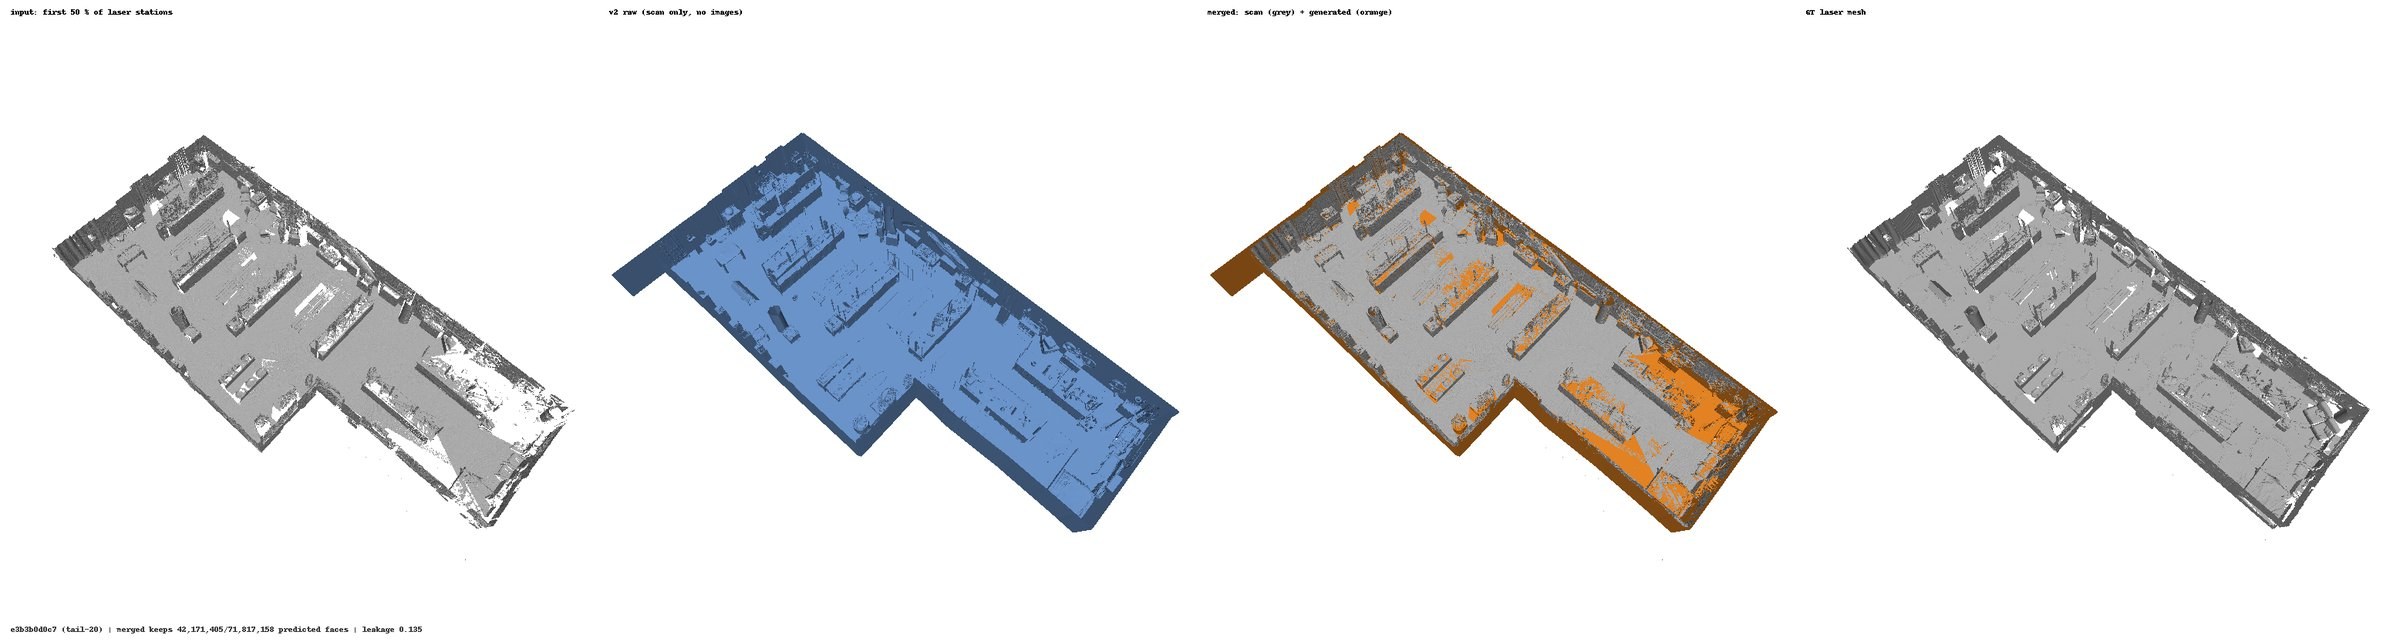
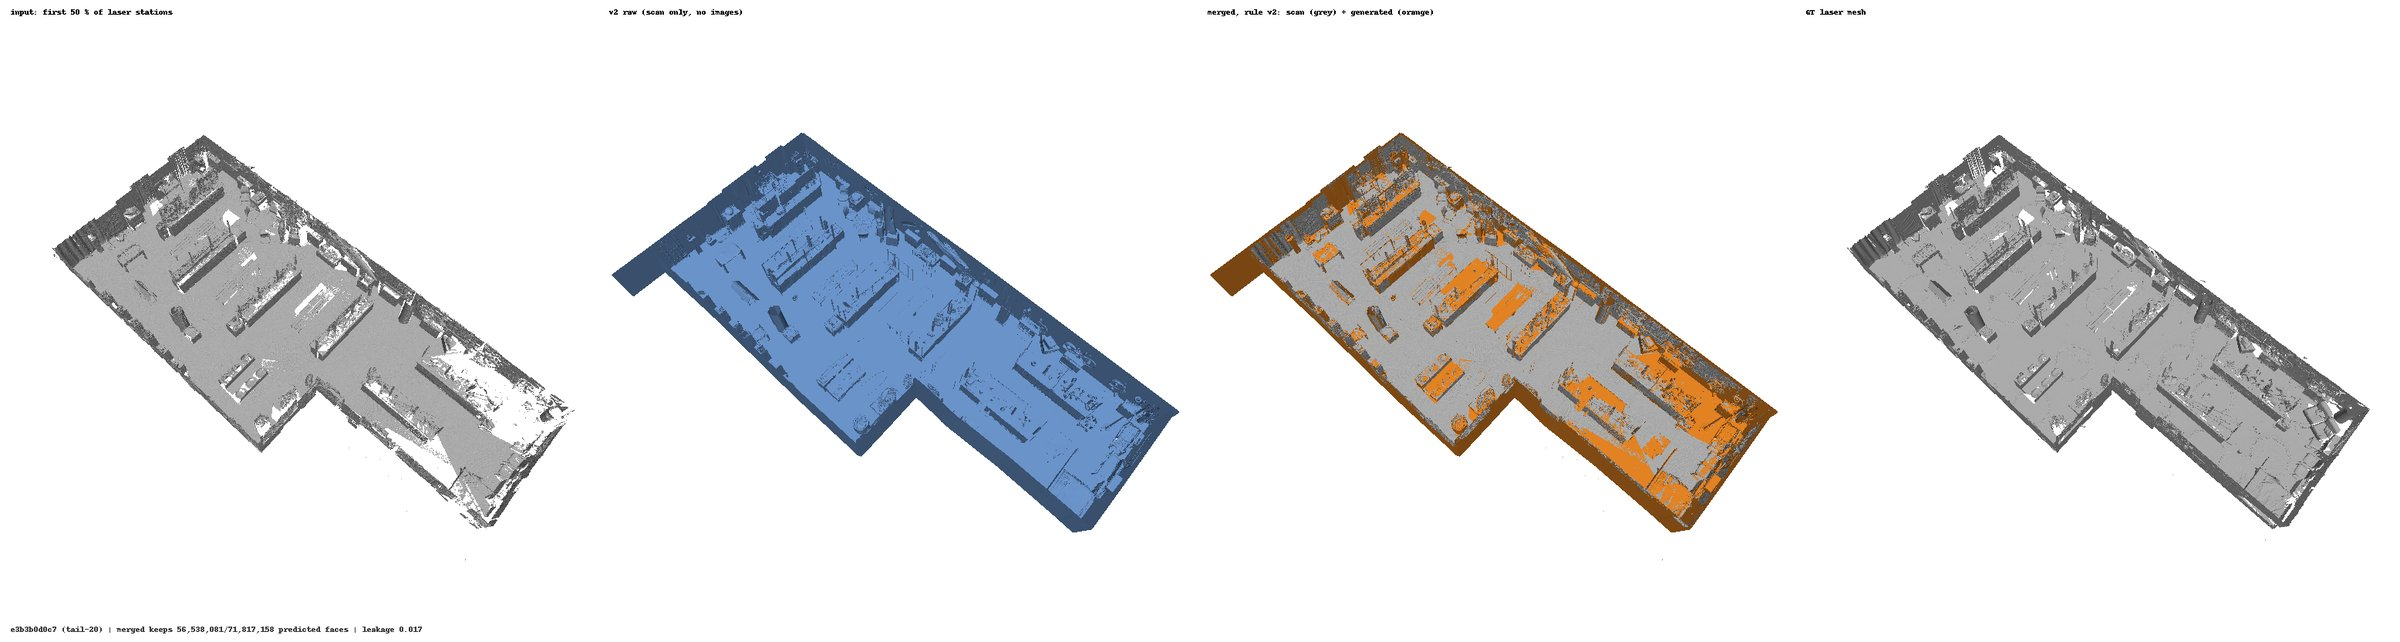
complete3d/completion: section 2 examples with merge rule v2 (6 shown scenes)
Section 2 (first 50 % of laser stations, scan only): the six example panels and the
seam close-up now use merge rule v2 (D57): drop a predicted vertex only within 1.5 cm
of the scan surface (point-to-triangle), keep a face if >= 1 vertex survives, free
space only with 3 cm clearance. A new table compares v1 and v2 on the six scenes
(mean CD merged 0.0382 -> 0.0368, faces kept 62 % -> 83 %). The whole-scene / split
tables stay the 137-scene rule-v1 numbers, labelled. Section 1 is unchanged.

Claude-Session: https://claude.ai/code/session_01SUA8FEE2aJdp9an81eJWGW

Changed region(s): [[0.5, 0.2181, 0.75, 0.81], [0.5312, 0.0, 0.5938, 0.0312]]

diff --git a/complete3d/completion/index.html b/complete3d/completion/index.html
@@ -56,14 +56,20 @@
     At that coverage the merge does <b>not</b> beat the input scan on CD; it adds the missing surface but less accurately than laser data.
   </div>
 
-  <h2>Merge rule (both sections)</h2>
+  <h2>Merge rules</h2>
   <ul class="rules">
     <li>Free space = 2 cm voxels crossed by each laser ray (station → point), stopping 4 cm before the hit.</li>
-    <li>A predicted vertex is dropped if it lies in free space (the scan saw nothing there) or within 3 cm of a scan point (the scan already
-      has the surface); a predicted face survives only if all three vertices do. Merged = scan mesh ∪ surviving predicted faces.</li>
+    <li><b>Rule v1</b> (both sections' tables, section 1's examples): a predicted vertex is dropped if it lies in free space (the scan saw
+      nothing there) or within 3 cm of a scan point (the scan already has the surface); a predicted face survives only if all three vertices do.</li>
+    <li><b>Rule v2</b> (section 2's examples, since 2026-11-05): a predicted vertex is dropped if it lies within 1.5 cm of the scan surface
+      (point-to-triangle) or in free space with 3 cm clearance (its 2 cm voxel and the voxels 3 cm away in all 26 directions are free, so laser
+      rays skimming the floor or a wall do not delete that surface); a predicted face survives if at least one vertex does. v1 cut the
+      prediction back 3–5 cm from every scan edge (a white ring) and deleted floor bands under grazing rays; v2 does neither.</li>
+    <li>Merged = scan mesh ∪ surviving predicted faces (no blending).</li>
     <li>Leakage check: the share of the raw predicted surface that lies in space the scan saw empty (removed by the rule) —
-      7.9% in section 1, 11.8% in section 2 (mean over scenes); predicted faces kept on
-      average 72% and 63%.</li>
+      7.9% in section 1, 11.8% in section 2 (rule v1, mean over scenes); predicted faces kept on
+      average 72% and 63%. On section 2's six examples rule v2 keeps
+      83% of the predicted faces (v1 62%); leakage 2.8% (v1 13.9%).</li>
   </ul>
 
   <h2 id="scan10">1 · First laser station (10 % of stations) + 8 DSLR images</h2>
@@ -89,24 +95,27 @@
 
 
   <h2 id="scan50">2 · First 50 % of laser stations, scan only (no images)</h2>
-  <div class="sub">Input = the <b>first half of the laser stations</b> (94% of the GT surface) and <b>nothing else</b>: no images at any stage (stage 1 scan-only, stages 2–3 unconditional) · 2026-10-15 · 137 test scenes</div>
+  <div class="sub">Input = the <b>first half of the laser stations</b> (94% of the GT surface) and <b>nothing else</b>: no images at any stage (stage 1 scan-only, stages 2–3 unconditional) · tables 2026-10-15 (merge rule v1) · examples 2026-11-05 (merge rule v2) · 137 test scenes</div>
   <div class="headline">
     <h3>Whole scene</h3>
-    <table><thead><tr><th>mesh</th><th>CD ↓</th><th>acc ↓</th><th>compl ↓</th><th>P ↑</th><th>R ↑</th><th>F@10 ↑</th><th>NC ↑</th></tr></thead><tbody><tr><td>input scan only (first 50 % of stations)</td><td class='best'>0.0267</td><td class='best'>0.0124</td><td class=''>0.0410</td><td class='best'>0.999</td><td class=''>0.924</td><td class='best'>0.959</td><td class='best'>0.907</td></tr><tr><td>Complete3D-v2 raw (scan only, no images)</td><td class=''>0.0518</td><td class=''>0.0573</td><td class=''>0.0462</td><td class=''>0.797</td><td class=''>0.943</td><td class=''>0.863</td><td class=''>0.818</td></tr><tr><td>Complete3D-v2 merged</td><td class=''>0.0389</td><td class=''>0.0532</td><td class='best'>0.0246</td><td class=''>0.793</td><td class='best'>0.982</td><td class=''>0.876</td><td class=''>0.878</td></tr></tbody></table>
+    <table><thead><tr><th>mesh</th><th>CD ↓</th><th>acc ↓</th><th>compl ↓</th><th>P ↑</th><th>R ↑</th><th>F@10 ↑</th><th>NC ↑</th></tr></thead><tbody><tr><td>input scan only (first 50 % of stations)</td><td class='best'>0.0267</td><td class='best'>0.0124</td><td class=''>0.0410</td><td class='best'>0.999</td><td class=''>0.924</td><td class='best'>0.959</td><td class='best'>0.907</td></tr><tr><td>Complete3D-v2 raw (scan only, no images)</td><td class=''>0.0518</td><td class=''>0.0573</td><td class=''>0.0462</td><td class=''>0.797</td><td class=''>0.943</td><td class=''>0.863</td><td class=''>0.818</td></tr><tr><td>Complete3D-v2 merged (rule v1)</td><td class=''>0.0389</td><td class=''>0.0532</td><td class='best'>0.0246</td><td class=''>0.793</td><td class='best'>0.982</td><td class=''>0.876</td><td class=''>0.878</td></tr></tbody></table>
     <p class="note">With half the stations the scan already covers 94% of the GT, and here the <b>merge does not beat the input scan on CD</b> (0.0267 input vs 0.0389 merged). It does improve on the raw prediction (0.0518 → 0.0389) and completes the scan (completeness 0.0410 → 0.0246, recall 0.924 → 0.982), but the generated surface it adds is far less accurate than laser data (accuracy 0.0124 → 0.0532), which outweighs the completeness gained.</p>
 
     <h3>Observed vs unobserved (station visibility)</h3>
-    <table><thead><tr><th rowspan='2'>mesh</th><th colspan='4' style='text-align:center'>observed (94% of GT)</th><th colspan='4' style='text-align:center'>unobserved</th></tr><tr><th>CD ↓</th><th>P ↑</th><th>R ↑</th><th>F ↑</th><th>CD ↓</th><th>P ↑</th><th>R ↑</th><th>F ↑</th></tr></thead><tbody><tr><td>input scan only (first 50 % of stations)</td><td>0.0146</td><td>0.999</td><td>0.978</td><td>0.989</td><td>—</td><td>—</td><td>0.000</td><td>—</td></tr><tr><td>Complete3D-v2 raw (scan only, no images)</td><td>0.0489</td><td>0.809</td><td>0.955</td><td>0.875</td><td>0.1696</td><td>0.147</td><td>0.835</td><td>0.234</td></tr><tr><td>Complete3D-v2 merged</td><td>0.0360</td><td>0.805</td><td>0.996</td><td>0.890</td><td>0.1713</td><td>0.146</td><td>0.820</td><td>0.232</td></tr></tbody></table>
+    <table><thead><tr><th rowspan='2'>mesh</th><th colspan='4' style='text-align:center'>observed (94% of GT)</th><th colspan='4' style='text-align:center'>unobserved</th></tr><tr><th>CD ↓</th><th>P ↑</th><th>R ↑</th><th>F ↑</th><th>CD ↓</th><th>P ↑</th><th>R ↑</th><th>F ↑</th></tr></thead><tbody><tr><td>input scan only (first 50 % of stations)</td><td>0.0146</td><td>0.999</td><td>0.978</td><td>0.989</td><td>—</td><td>—</td><td>0.000</td><td>—</td></tr><tr><td>Complete3D-v2 raw (scan only, no images)</td><td>0.0489</td><td>0.809</td><td>0.955</td><td>0.875</td><td>0.1696</td><td>0.147</td><td>0.835</td><td>0.234</td></tr><tr><td>Complete3D-v2 merged (rule v1)</td><td>0.0360</td><td>0.805</td><td>0.996</td><td>0.890</td><td>0.1713</td><td>0.146</td><td>0.820</td><td>0.232</td></tr></tbody></table>
     <p class="note">Observed = within 15 cm of what the first half of the stations scanned (94% of the GT); unobserved = the remaining 6%. The input has no geometry there; the merged result recovers 0.820 of it (raw 0.835; the merge removes a little generated surface there). On the observed part the scan stays far ahead (CD 0.0146 vs 0.0360 merged): the scan is kept verbatim, but generated faces in observed-region space the laser neither hit nor saw empty add error.</p>
     <p class="note">Merge: 63% of predicted faces kept on average; leakage 0.118 (mean share of the raw predicted
       surface lying in space the scan saw empty, removed).</p>
+    <h3>Merge rule v2 on the 6 example scenes</h3>
+    <table><thead><tr><th>scene</th><th>CD input</th><th>CD raw</th><th>CD merged v1</th><th>CD merged v2</th><th>faces kept v1 → v2</th><th>leakage v1 → v2</th></tr></thead><tbody><tr><td>f19ca0a52e · best</td><td>0.0173</td><td>0.0388</td><td>0.0277</td><td>0.0267</td><td>62% → 83%</td><td>0.170 → 0.030</td></tr><tr><td>f9f95681fd · best</td><td>0.0058</td><td>0.0399</td><td>0.0308</td><td>0.0286</td><td>68% → 85%</td><td>0.086 → 0.011</td></tr><tr><td>e050c15a8d · tail-20</td><td>0.0242</td><td>0.0562</td><td>0.0423</td><td>0.0410</td><td>62% → 83%</td><td>0.122 → 0.023</td></tr><tr><td>e3b3b0d0c7 · tail-20</td><td>0.0421</td><td>0.0659</td><td>0.0548</td><td>0.0538</td><td>59% → 79%</td><td>0.135 → 0.017</td></tr><tr><td>e91722b5a3 · typical</td><td>0.0209</td><td>0.0463</td><td>0.0383</td><td>0.0362</td><td>62% → 82%</td><td>0.125 → 0.022</td></tr><tr><td>e3c1da58dd · typical</td><td>0.0167</td><td>0.0537</td><td>0.0351</td><td>0.0344</td><td>60% → 85%</td><td>0.197 → 0.067</td></tr><tr><td><b>mean of the 6</b></td><td>0.0212</td><td>0.0501</td><td>0.0382</td><td>0.0368</td><td>62% → 83%</td><td>0.139 → 0.028</td></tr></tbody></table>
+    <p class="note"><b>Merge rule v2</b> (2026-11-05), applied to the six example scenes below: a predicted vertex is dropped only within 1.5 cm of the scan <i>surface</i> (point-to-triangle; v1: 3 cm of any scan point) or in free space with 3 cm clearance (v1: any free 2 cm voxel), and a predicted face is kept if at least one of its vertices survives (v1: all three). This closes v1's white ring between the generated and scan surfaces and keeps the floor that grazing laser rays had deleted. Leakage = share of the raw predicted surface in space the scan saw empty, under each rule's own free-space definition (v2: with 3 cm clearance). Rule v2 was run on these scenes only; the tables above are rule v1 over all scenes.</p>
   </div>
 
   <h3>Examples</h3>
   <p class="note">Panels: input scan · Complete3D-v2 raw · merged (scan grey, generated orange) · GT. One camera per scene; walls cut
-    at 60 % of the room height. Scenes: the same six as section 1 (picked on the 10 % results), for a side-by-side comparison.</p>
+    at 60 % of the room height. Scenes: the same six as section 1 (picked on the 10 % results), for a side-by-side comparison. These panels use <b>merge rule v2</b>; the tables above are rule v1 over all scenes.</p>
   <div class="gallery">
-    <div class='card'><img src='gallery/scan50/f19ca0a52e.jpg' loading='lazy' alt='f19ca0a52e'><div class='cap'><span><b>f19ca0a52e</b> · best</span><span>CD input 0.0173 · raw 0.0388 · merged 0.0277</span></div></div><div class='card'><img src='gallery/scan50/f9f95681fd.jpg' loading='lazy' alt='f9f95681fd'><div class='cap'><span><b>f9f95681fd</b> · best</span><span>CD input 0.0058 · raw 0.0399 · merged 0.0308</span></div></div><div class='card'><img src='gallery/scan50/e050c15a8d.jpg' loading='lazy' alt='e050c15a8d'><div class='cap'><span><b>e050c15a8d</b> · tail-20</span><span>CD input 0.0242 · raw 0.0562 · merged 0.0423</span></div></div><div class='card'><img src='gallery/scan50/e3b3b0d0c7.jpg' loading='lazy' alt='e3b3b0d0c7'><div class='cap'><span><b>e3b3b0d0c7</b> · tail-20</span><span>CD input 0.0421 · raw 0.0659 · merged 0.0548</span></div></div><div class='card'><img src='gallery/scan50/e91722b5a3.jpg' loading='lazy' alt='e91722b5a3'><div class='cap'><span><b>e91722b5a3</b> · typical</span><span>CD input 0.0209 · raw 0.0463 · merged 0.0383</span></div></div><div class='card'><img src='gallery/scan50/e3c1da58dd.jpg' loading='lazy' alt='e3c1da58dd'><div class='cap'><span><b>e3c1da58dd</b> · typical</span><span>CD input 0.0167 · raw 0.0537 · merged 0.0351</span></div></div><div class='card'><img src='gallery/scan50/seam_f19ca0a52e.jpg' loading='lazy' alt='seam f19ca0a52e'><div class='cap'><span><b>Seam close-up</b> · f19ca0a52e</span><span>generated (orange) stops ≤ 3 cm from the scan (grey)</span></div></div>
+    <div class='card'><img src='gallery/scan50/f19ca0a52e.jpg' loading='lazy' alt='f19ca0a52e'><div class='cap'><span><b>f19ca0a52e</b> · best</span><span>CD input 0.0173 · raw 0.0388 · merged v1 0.0277 · merged v2 0.0267</span></div></div><div class='card'><img src='gallery/scan50/f9f95681fd.jpg' loading='lazy' alt='f9f95681fd'><div class='cap'><span><b>f9f95681fd</b> · best</span><span>CD input 0.0058 · raw 0.0399 · merged v1 0.0308 · merged v2 0.0286</span></div></div><div class='card'><img src='gallery/scan50/e050c15a8d.jpg' loading='lazy' alt='e050c15a8d'><div class='cap'><span><b>e050c15a8d</b> · tail-20</span><span>CD input 0.0242 · raw 0.0562 · merged v1 0.0423 · merged v2 0.0410</span></div></div><div class='card'><img src='gallery/scan50/e3b3b0d0c7.jpg' loading='lazy' alt='e3b3b0d0c7'><div class='cap'><span><b>e3b3b0d0c7</b> · tail-20</span><span>CD input 0.0421 · raw 0.0659 · merged v1 0.0548 · merged v2 0.0538</span></div></div><div class='card'><img src='gallery/scan50/e91722b5a3.jpg' loading='lazy' alt='e91722b5a3'><div class='cap'><span><b>e91722b5a3</b> · typical</span><span>CD input 0.0209 · raw 0.0463 · merged v1 0.0383 · merged v2 0.0362</span></div></div><div class='card'><img src='gallery/scan50/e3c1da58dd.jpg' loading='lazy' alt='e3c1da58dd'><div class='cap'><span><b>e3c1da58dd</b> · typical</span><span>CD input 0.0167 · raw 0.0537 · merged v1 0.0351 · merged v2 0.0344</span></div></div><div class='card'><img src='gallery/scan50/seam_f19ca0a52e.jpg' loading='lazy' alt='seam f19ca0a52e'><div class='cap'><span><b>Seam close-up</b> · f19ca0a52e</span><span>rule v1 vs rule v2 at the same spot: with v2 the generated part (orange) runs up to the scan (grey) edge</span></div></div>
   </div>
 
 </div>
